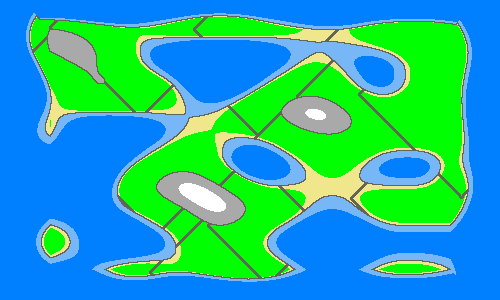
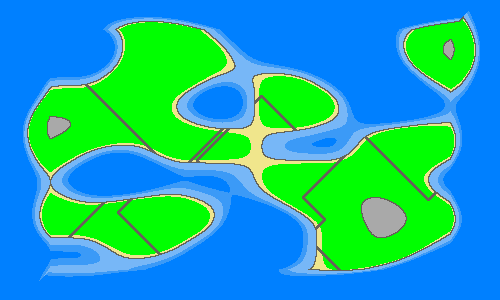
Another Shore Line added

diff --git a/Assets/MapCreator/MapGenerator/MapGenerator.cs b/Assets/MapCreator/MapGenerator/MapGenerator.cs
@@ -8,7 +8,8 @@ public class MapGenerator : MonoBehaviour
     // Noisescale is like a "zoom" on the perlin noise
     // high => far away, low => close
     [SerializeField, Range(0.1f, 50f)] private float noiseScale = 4f;
-    [SerializeField, Range(0f, 1f)] private float deepSeaThreshold = 0.40f;
+    [SerializeField, Range(0f, 1f)] private float deepSeaThreshold = 0.15f;
+    [SerializeField, Range(0f, 1f)] private float seaThreshold = 0.40f;
     [SerializeField, Range(0f, 1f)] private float shallowSeaThreshold = 0.45f;
     [SerializeField, Range(0f, 1f)] private float beachThreshold = 0.48f;
     [SerializeField, Range(0f, 1f)] private float grassThreshold = 0.8f;
@@ -46,7 +47,7 @@ public class MapGenerator : MonoBehaviour
     {
         var generator = new TerrainGenerator(this.mapWidth, this.mapHeight, this.noiseScale, this.random, this.outerBoundaryXSize, this.outerBoundaryYSize);
         var noiseMap = generator.GenerateNoiseMap();
-        var terrain = generator.GenerateTerrain(noiseMap, this.deepSeaThreshold, this.shallowSeaThreshold, this.beachThreshold, this.grassThreshold, this.mountainThreshold);
+        var terrain = generator.GenerateTerrain(noiseMap, this.deepSeaThreshold, this.seaThreshold, this.shallowSeaThreshold, this.beachThreshold, this.grassThreshold, this.mountainThreshold);
 
         var generatedProvinces = new ProvincesGenerator().GenerateProvinces(terrain, new Vector2Int(this.mapWidth, this.mapHeight), this.ProvincesMaxSize);
 

diff --git a/Assets/MapCreator/MapGenerator/TerrainGenerator.cs b/Assets/MapCreator/MapGenerator/TerrainGenerator.cs
@@ -39,7 +39,7 @@ public class TerrainGenerator
         return noiseMap;
     }
 
-    public Color32[] GenerateTerrain(float[,] noiseMap, float deepSeaThreshold, float shallowSeaThreshold, float beachThreshold, float grassThreshold, float mountainThreshold)
+    public Color32[] GenerateTerrain(float[,] noiseMap, float deepSeaThreshold, float seaThreshold, float shallowSeaThreshold, float beachThreshold, float grassThreshold, float mountainThreshold)
     {
         var pixels = new Color32[mapWidth * mapHeight];
 
@@ -50,14 +50,20 @@ public class TerrainGenerator
                 ;
                 var noiseValue = noiseMap[x, y];
 
-                // sea
+                // deep sea
                 if (noiseValue <= deepSeaThreshold)
                 {
                     pixels[y * mapWidth + x] = ColorHelper.deepSeaBlue;
                 }
 
-                // shore
+                // sea
                 if (noiseValue > deepSeaThreshold && noiseValue <= shallowSeaThreshold)
+                {
+                    pixels[y * mapWidth + x] = ColorHelper.seaBlue;
+                }
+
+                // shore
+                if (noiseValue > seaThreshold && noiseValue <= beachThreshold)
                 {
                     pixels[y * mapWidth + x] = ColorHelper.shallowSeaBlue;
                 }

diff --git a/Assets/Common/ColorHelper.cs b/Assets/Common/ColorHelper.cs
@@ -6,6 +6,7 @@ public static class ColorHelper
 {
     public static Color32 mountainGray = new(169, 169, 169, 255);
     public static Color32 deepSeaBlue = new(0, 128, 255, 255);
+    public static Color32 seaBlue = new(59, 154, 247, 255);
     public static Color32 shallowSeaBlue = new(119, 183, 247, 255);
     public static Color32 sandYellow = new(240, 230, 140, 255);
     public static Color32 snowWhite = new(255, 255, 255, 255);
@@ -22,7 +23,7 @@ public static class ColorHelper
         new Color32(25, 79, 30, 255), // Dark Forest Green
     };
 
-    public static HashSet<Color32> SeaColors = new() { ColorHelper.deepSeaBlue, ColorHelper.shallowSeaBlue };
+    public static HashSet<Color32> SeaColors = new() { ColorHelper.deepSeaBlue, ColorHelper.seaBlue, ColorHelper.shallowSeaBlue };
     public static HashSet<Color32> MountainColors = new() { ColorHelper.mountainGray, ColorHelper.snowWhite };
     public static HashSet<Color32> LandColors = new() { ColorHelper.grassGreen, ColorHelper.sandYellow };
 
